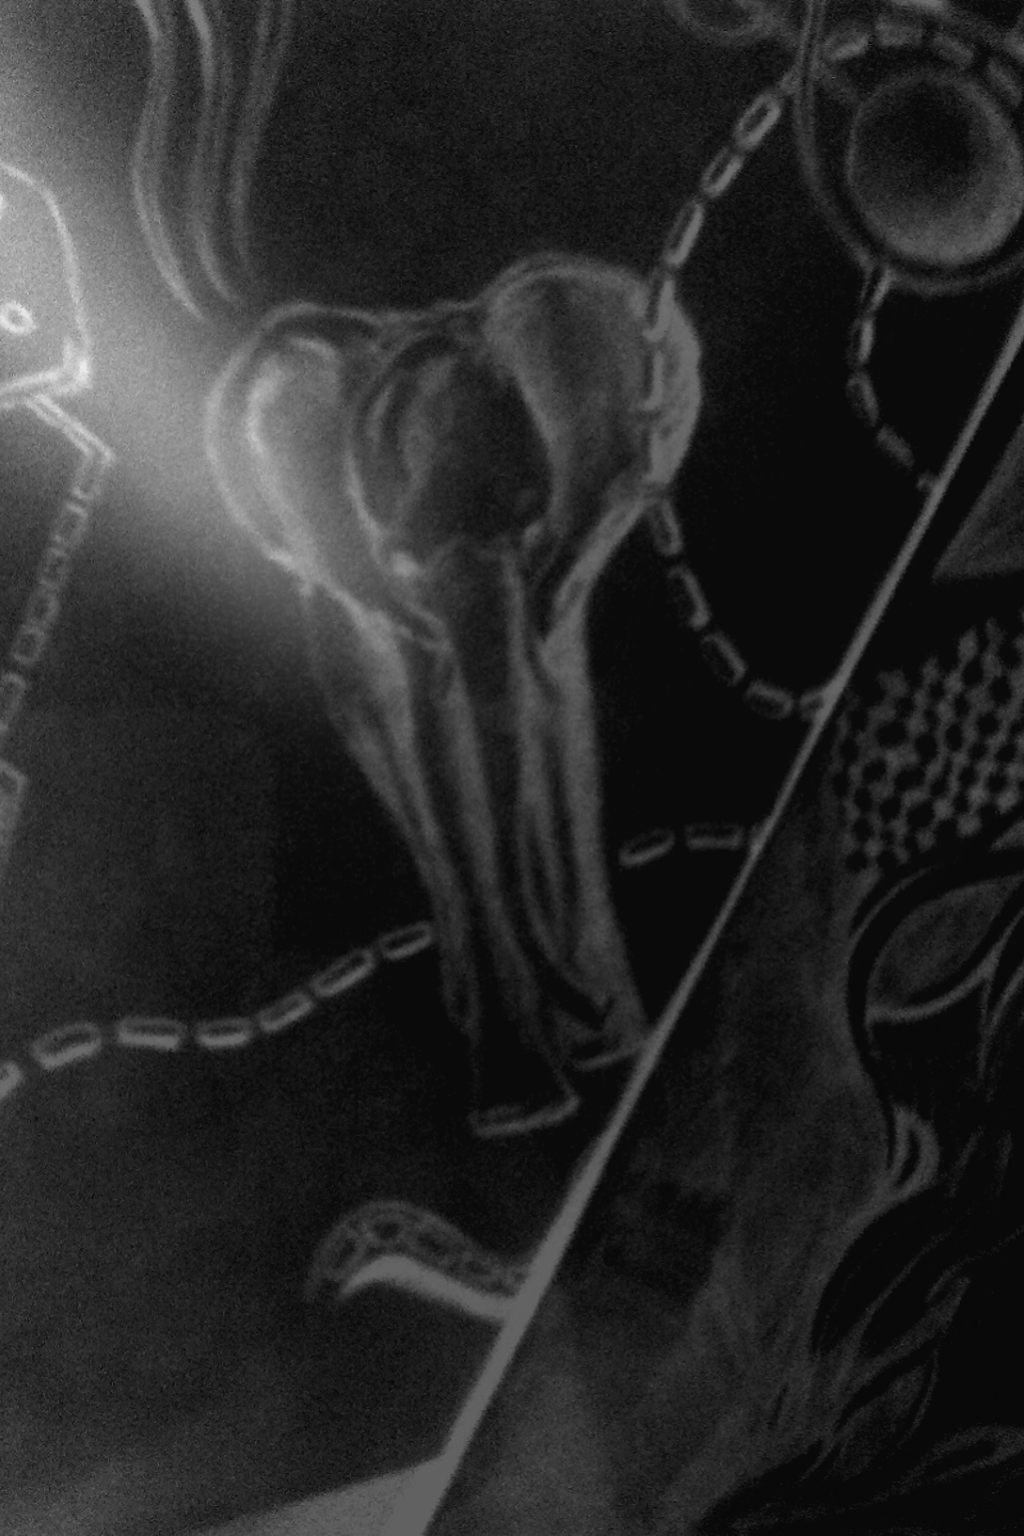
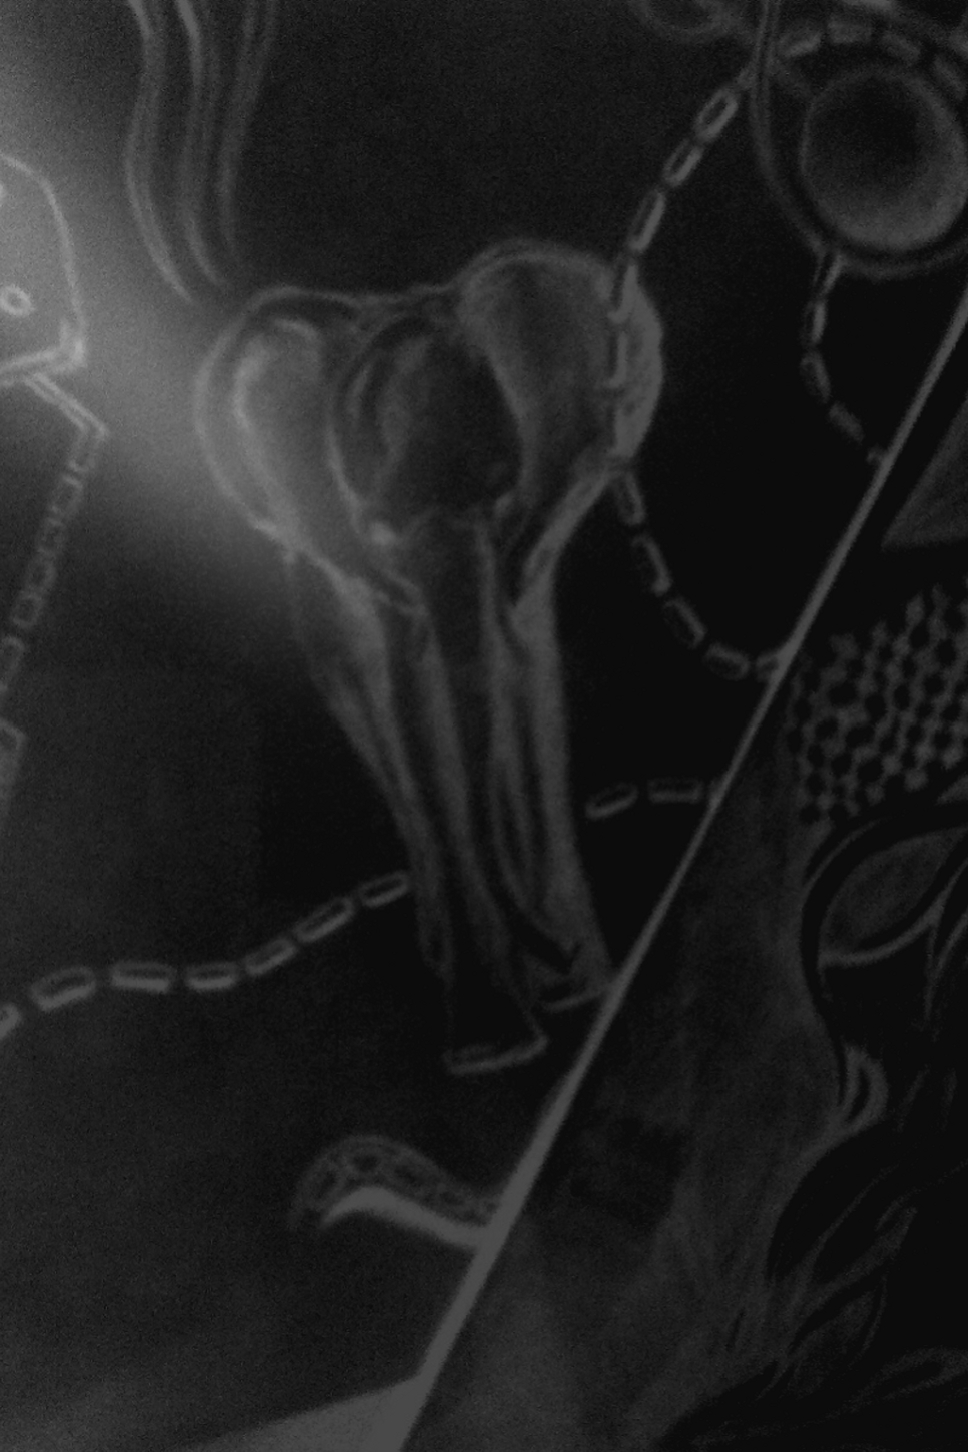
update antistereotip new

diff --git a/css/wuzzle.3d.css b/css/wuzzle.3d.css
@@ -2,9 +2,11 @@ body {
       background-color: black;
       color: white;
       font-family: 'Lucida Grande', Verdana, Arial;
-      font-size: 12px;background-image:url(../data/pics/jpg/art9.jpg);background-repeat: no-repeat;
-    background-attachment: fixed;
-    background-position: center; 
+      font-size: 12px;
+     background-image:url(../data/pics/jpg/art9.jpg);
+     background-repeat: no-repeat;
+     background-position: center; 
+     background-attachment: fixed;
       /* background-image: -webkit-gradient(radial,
                             50% 500, 1,
                             50% 500, 400,
@@ -15,7 +17,7 @@ body {
 
     #container {
       width: 100%;
-      height: 700px;
+      height: 400px;
       -webkit-perspective: 800;
       -webkit-perspective-origin: 50% 225px;
     }
@@ -28,7 +30,7 @@ body {
     
     #shape {
       position: relative;
-      top: 140px;
+      top: 100px;
       margin: 0 auto;
       height: 200px;
       width: 200px;
@@ -39,14 +41,14 @@ body {
       position: absolute;
       height: 200px;
       width: 200px;
-      border: 1px solid white;
-      -webkit-border-radius: 12px;
+      border: 1px solid #A5FFA5;
+      -webkit-border-radius: 0px;
       -webkit-box-sizing: border-box;
       text-align: center;
       font-family: Times, serif;
       font-size: 124pt;
       color: black;
-      background-color: rgba(255, 255, 255, 0.6);
+      background-color: rgba(85, 102, 92, 0.6);
       -webkit-transition: -webkit-transform 2s, opacity 2s;
       -webkit-backface-visibility: hidden;
     }
@@ -174,7 +176,7 @@ body {
       width: 80%;
       margin: 0 auto;
       padding: 5px 20px;
-	border:1px solid #17f118;
+	border:1px solid #A5FFA5;
       -webkit-border-radius: 0px;
       background-color: rgba(128, 128, 128, 0.5);
 	color: rgb(255, 179, 179);

diff --git a/index.html b/index.html
@@ -52,7 +52,17 @@
         
       </div>
     </div>
+    <div id="stage">
+     <p>test</p><hr />
+    </div>
   </div>
+
+
+
+
+
+
+
   
 </body>
 </html>
